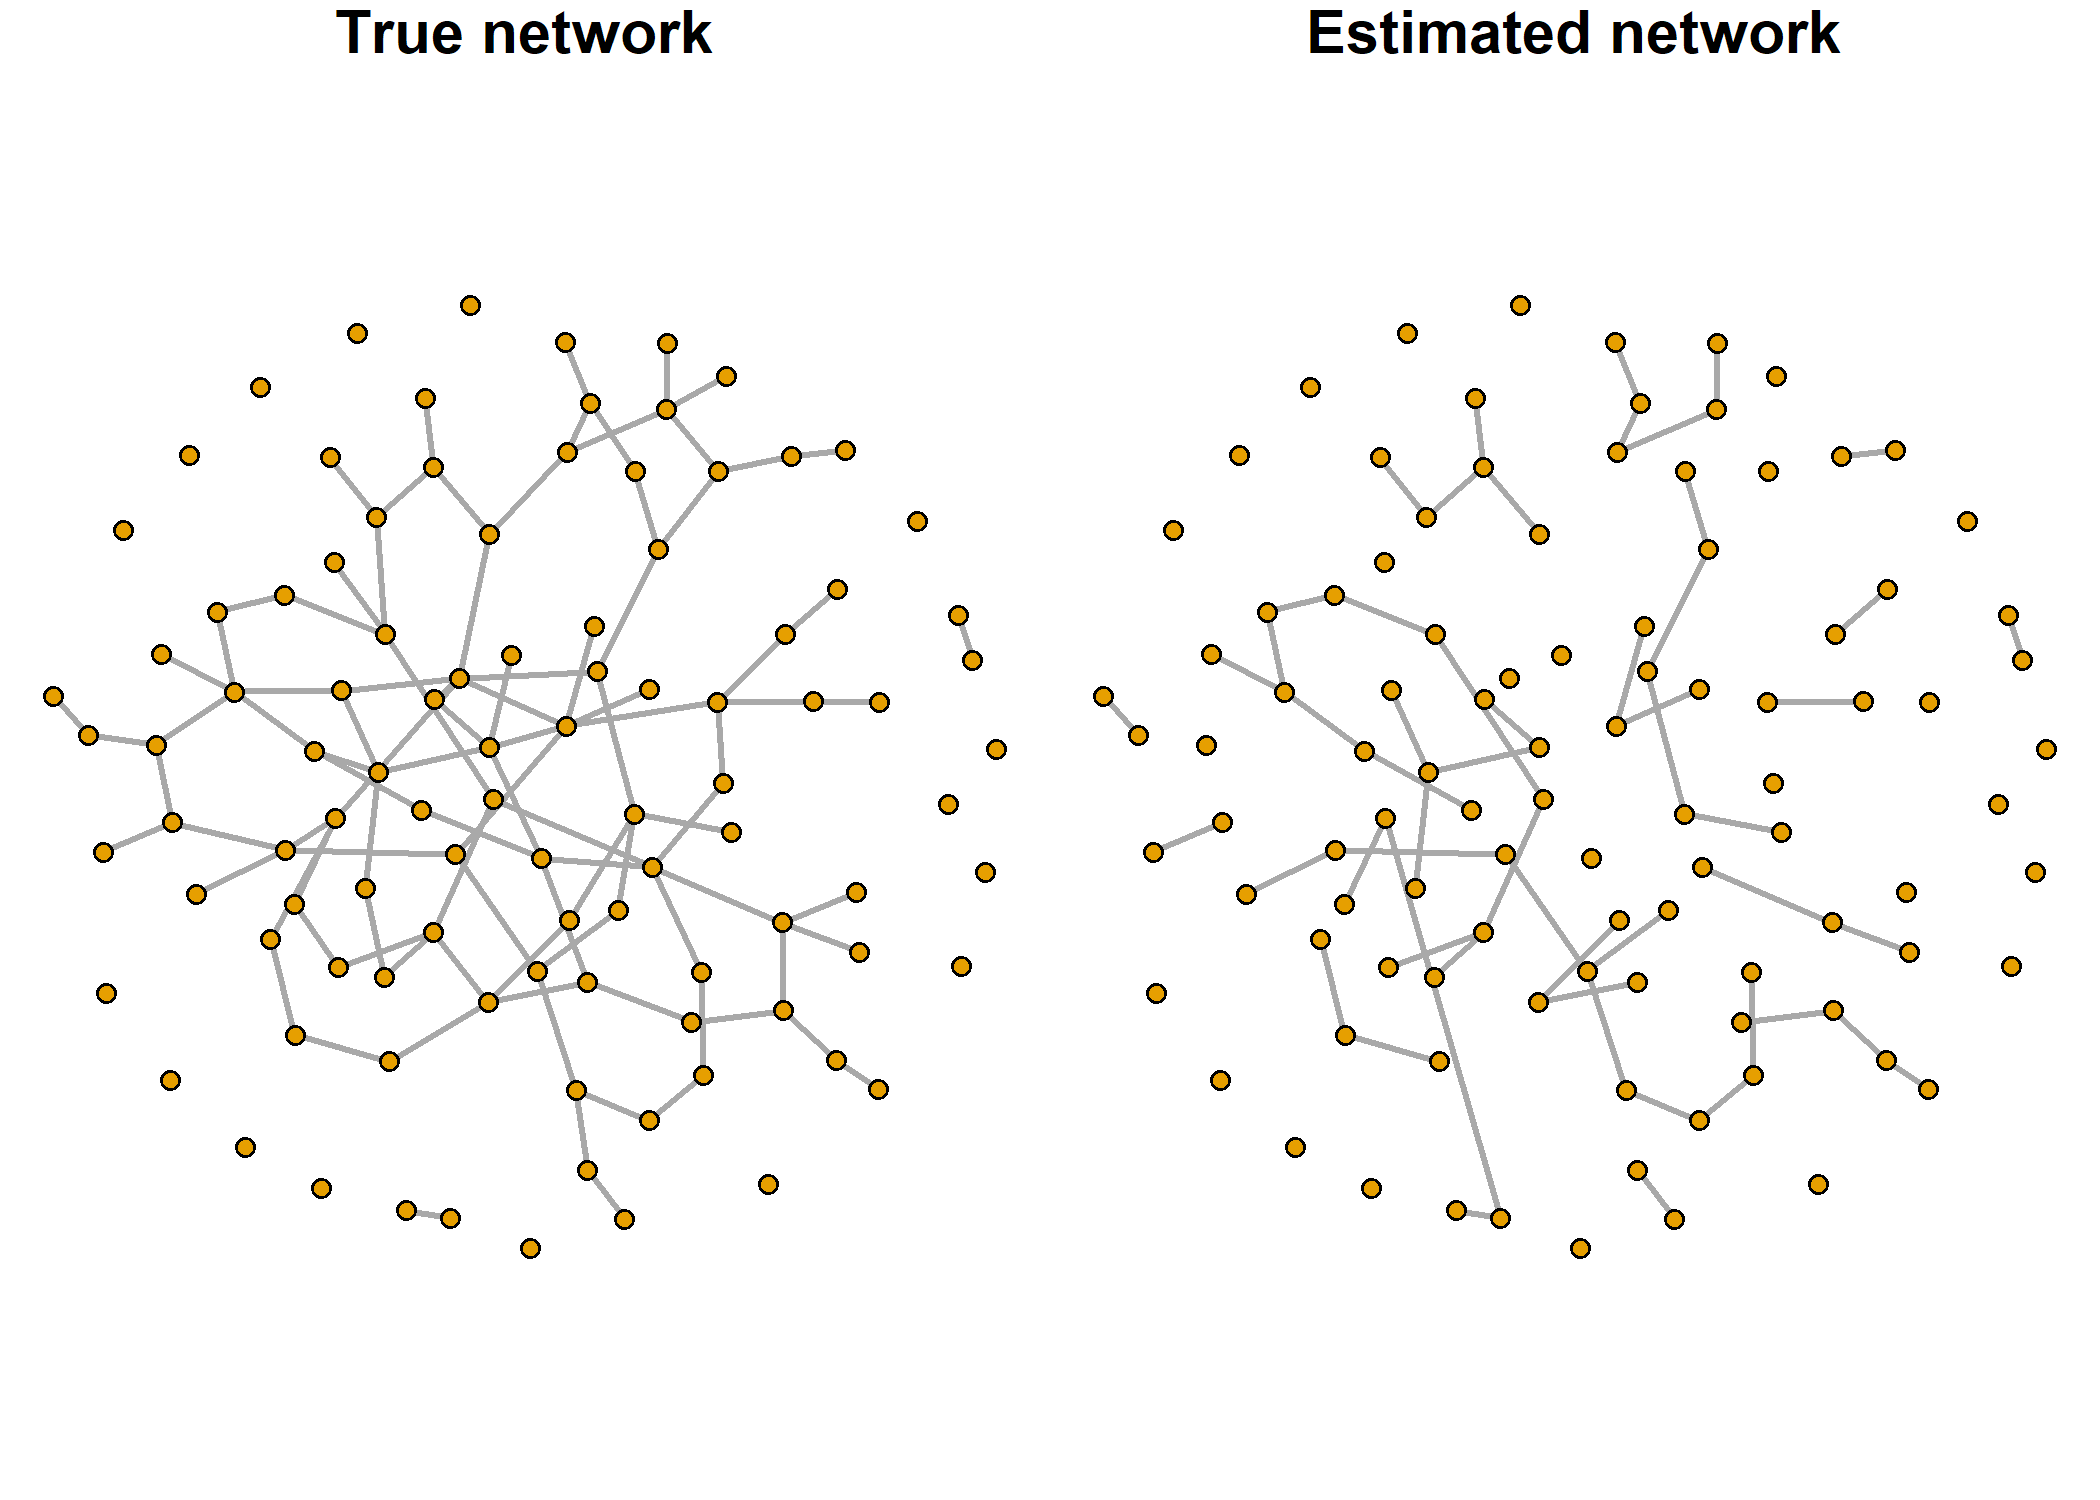
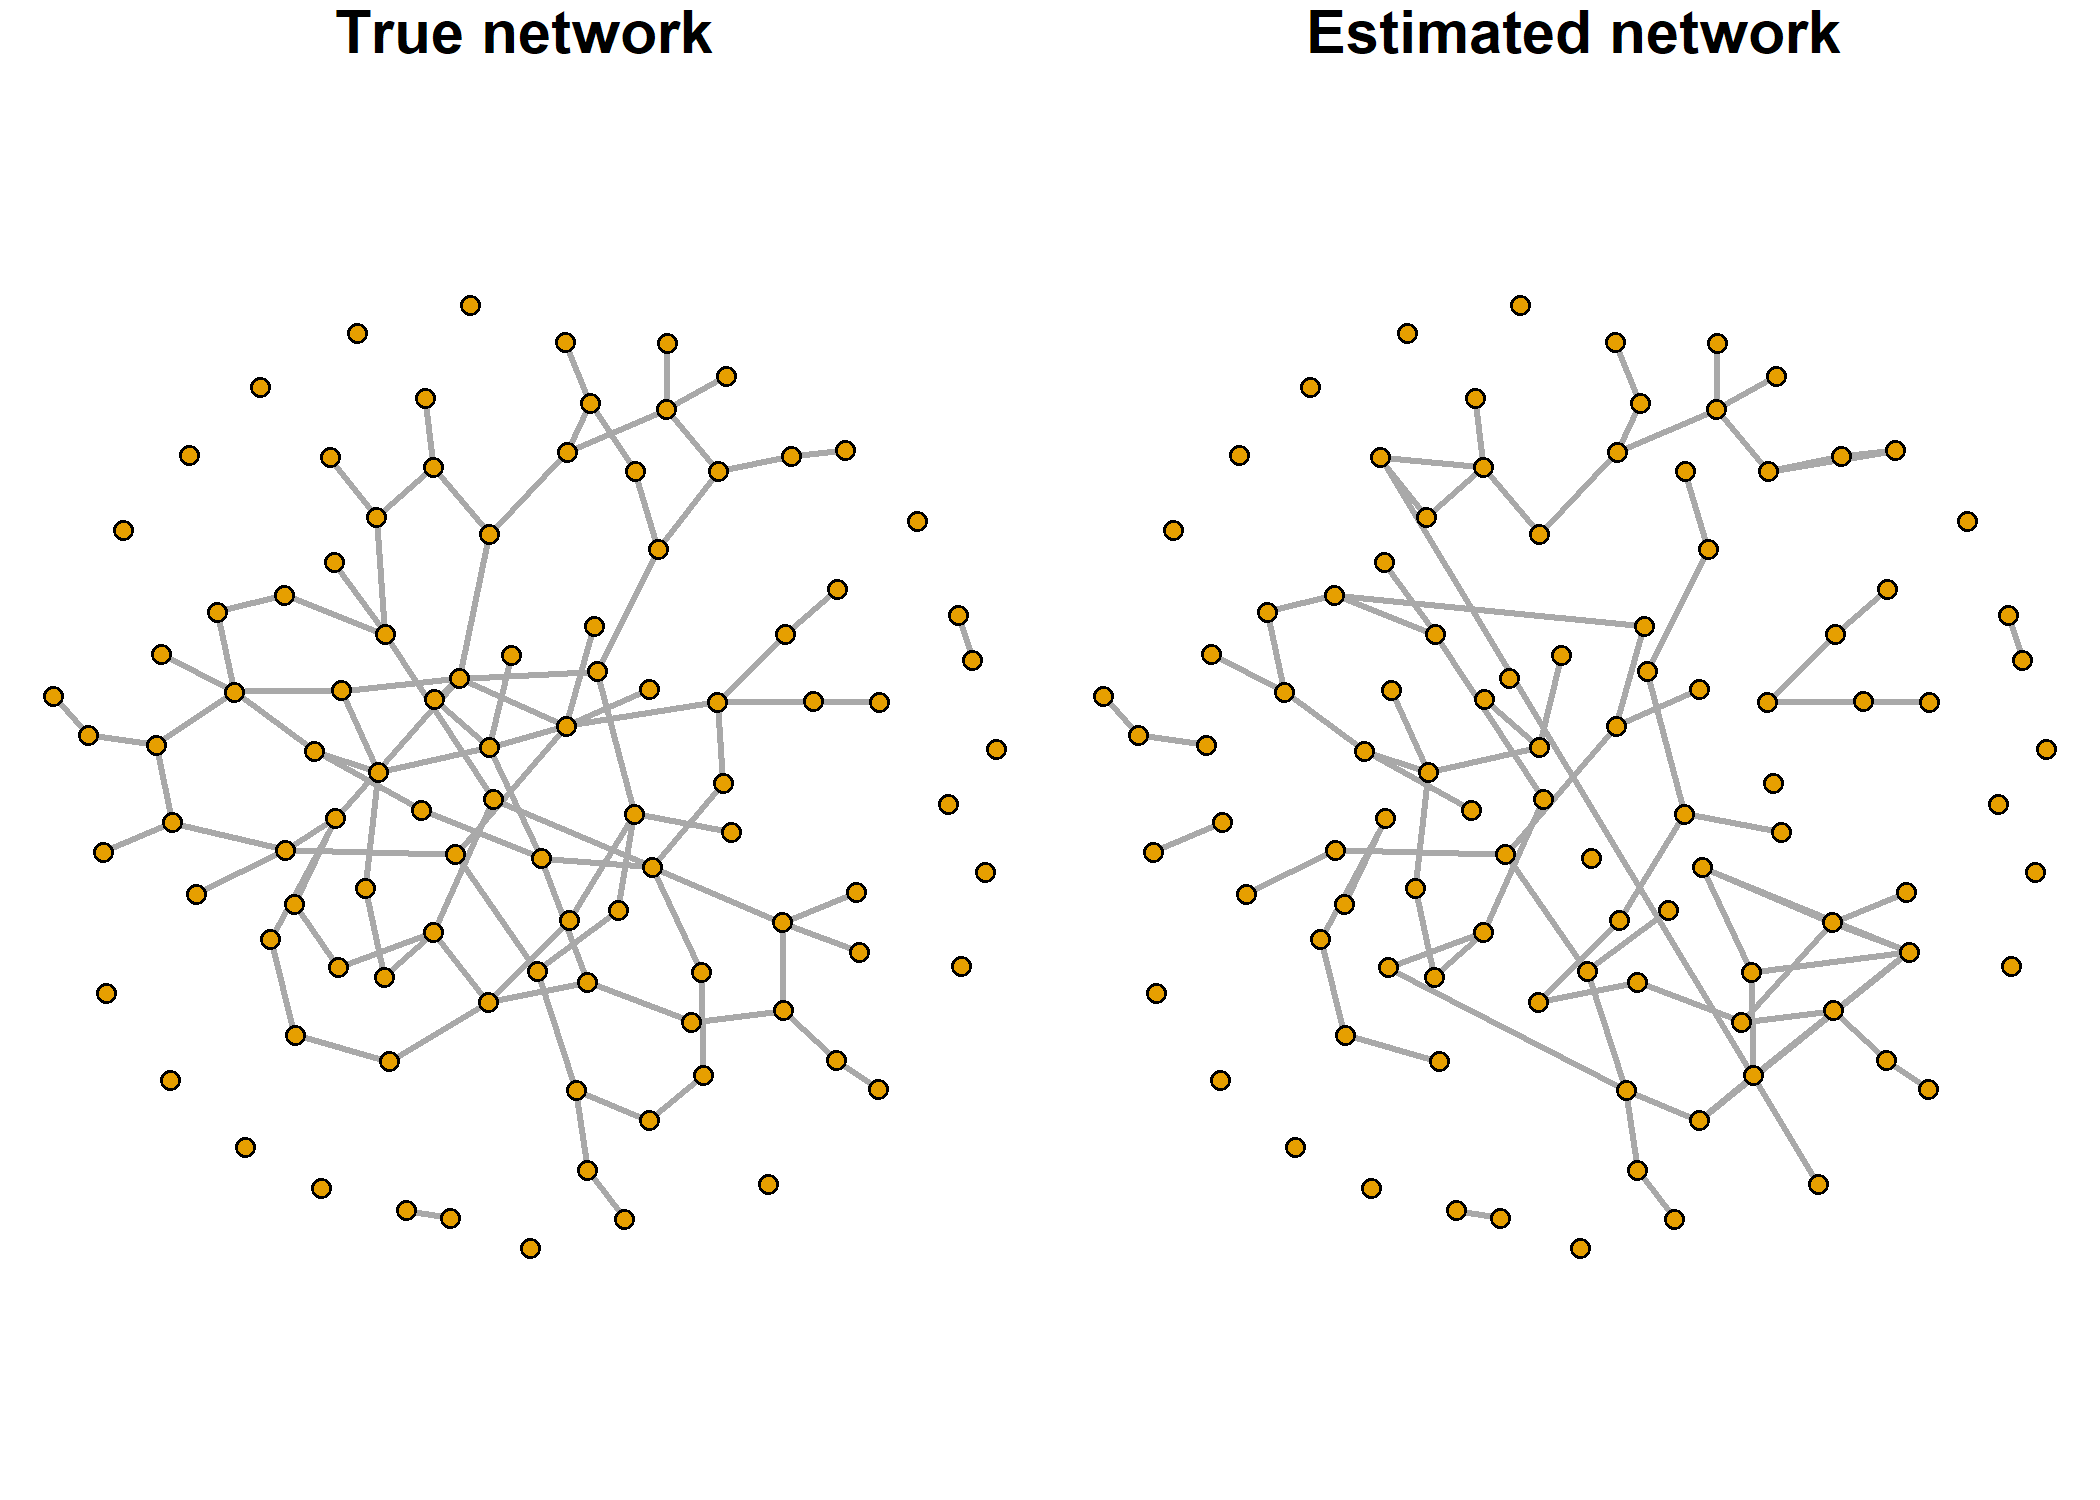
Update readme.

diff --git a/Readme.md b/Readme.md
@@ -1,5 +1,5 @@
 
-# `rTVGL`: Time-varying graphical LASSO for R
+# `rTVGL`: Time-Varying Graphical LASSO for R
 
 This R package implements the time-varying graphical LASSO method
 introduced by Hallac et al. (2017). The ADMM algorithm is adapted from
@@ -44,10 +44,10 @@ Run the TVGLASSO method using the `tvgl` function and $l_1$ penalty over
 the time.
 
 ``` r
-results <- tvgl(sim$datasets[[1]], lambda = 0.3, beta = 0.2, penalty_type = "l1")
+results <- tvgl(sim$datasets[[1]], lambda = 0.25, beta = 0.25, penalty_type = "l1")
 ```
 
-    ## Convergence reached at iteration 33. Elapsed time 1.411 s.
+    ## Convergence reached at iteration 45. Elapsed time 1.966 s.
 
 Calculate and print the confusion matrix for the first timepoint.
 
@@ -56,8 +56,8 @@ Calculate and print the confusion matrix for the first timepoint.
 ```
 
     ##        Estim. P Estim. N
-    ## True P       54       46
-    ## True N        1     4849
+    ## True P       72       28
+    ## True N       10     4840
 
 Calculate and print some performance scores.
 
@@ -65,8 +65,8 @@ Calculate and print some performance scores.
 round(calculate_scores(cm)[, c("MCC", "F1", "TPR", "FDR")], 4)
 ```
 
-    ##      MCC     F1  TPR    FDR
-    ## 1 0.7245 0.6968 0.54 0.0182
+    ##      MCC     F1  TPR   FDR
+    ## 1 0.7914 0.7912 0.72 0.122
 
 Plot the true simulated network and estimated network using the R
 package `igraph`.